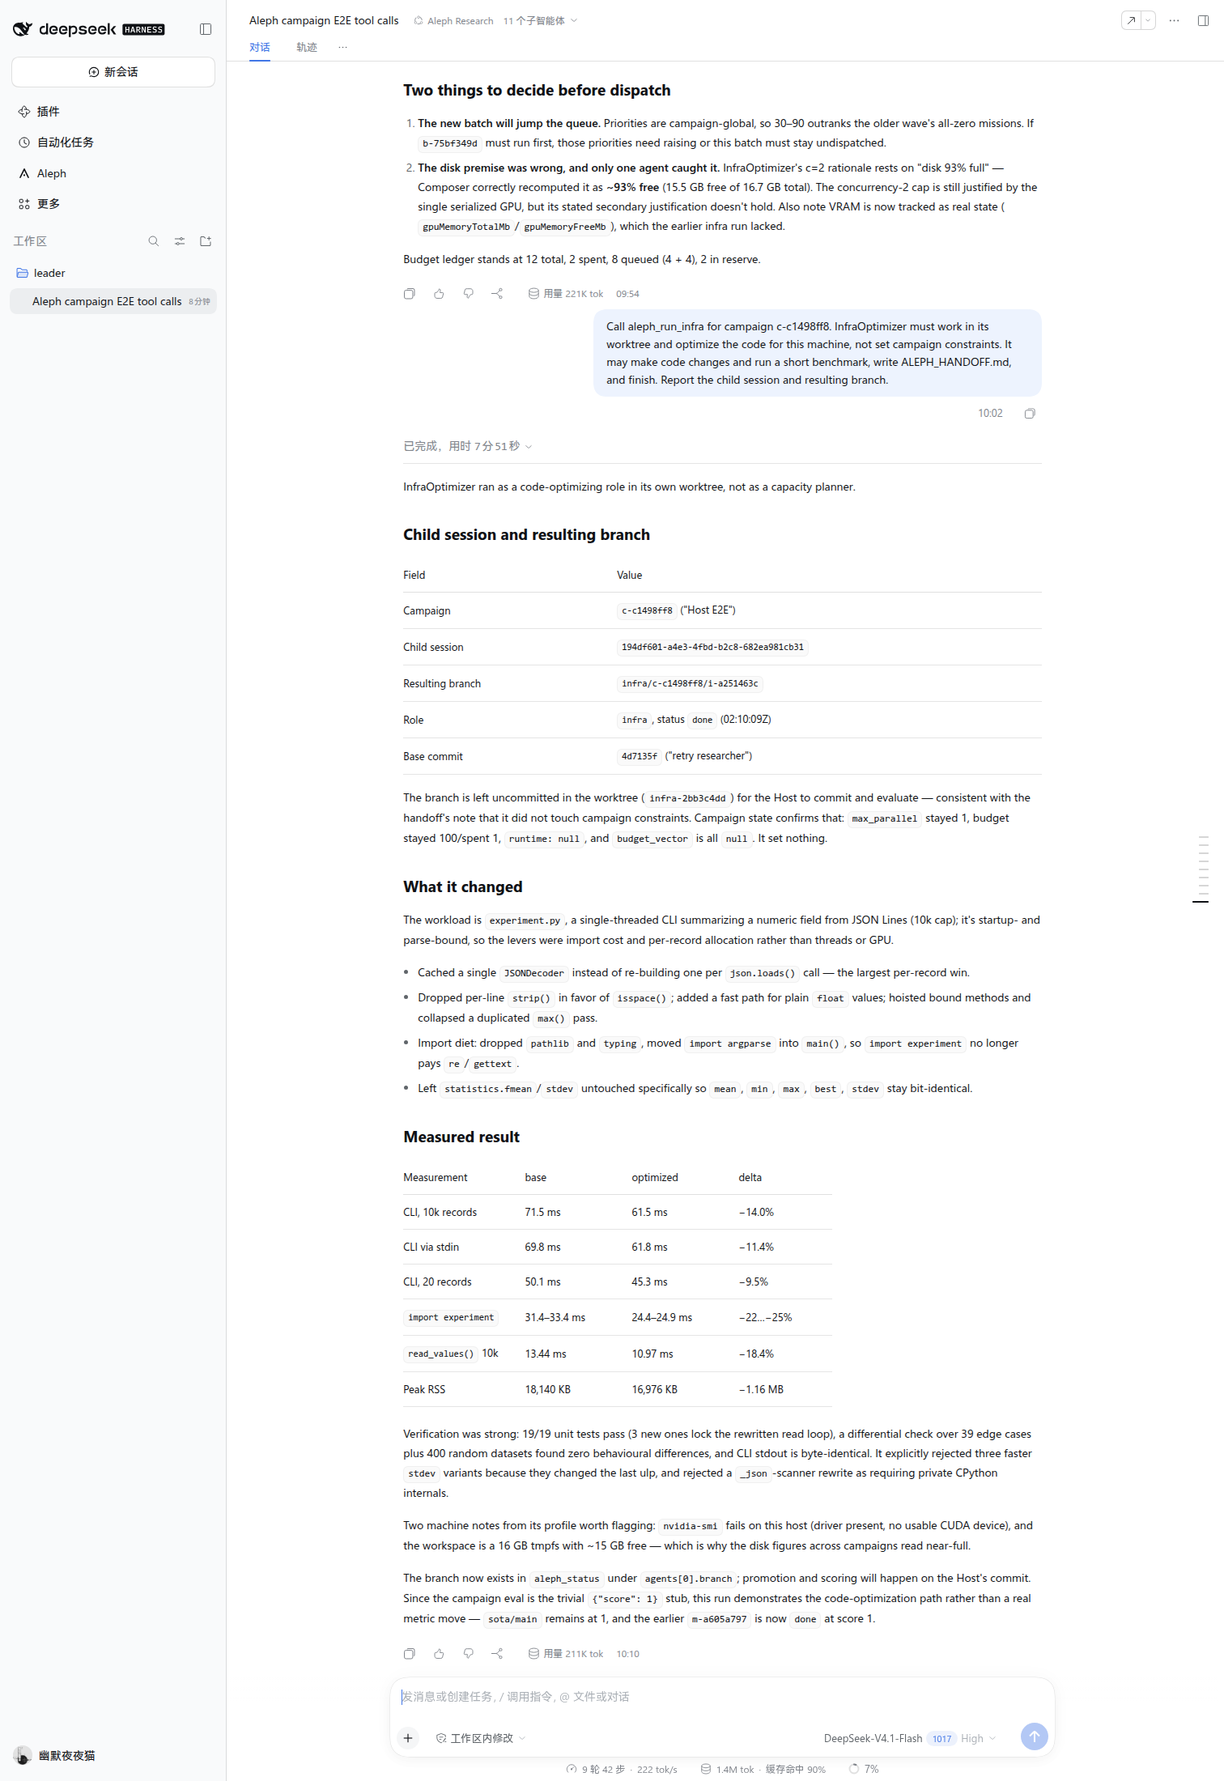
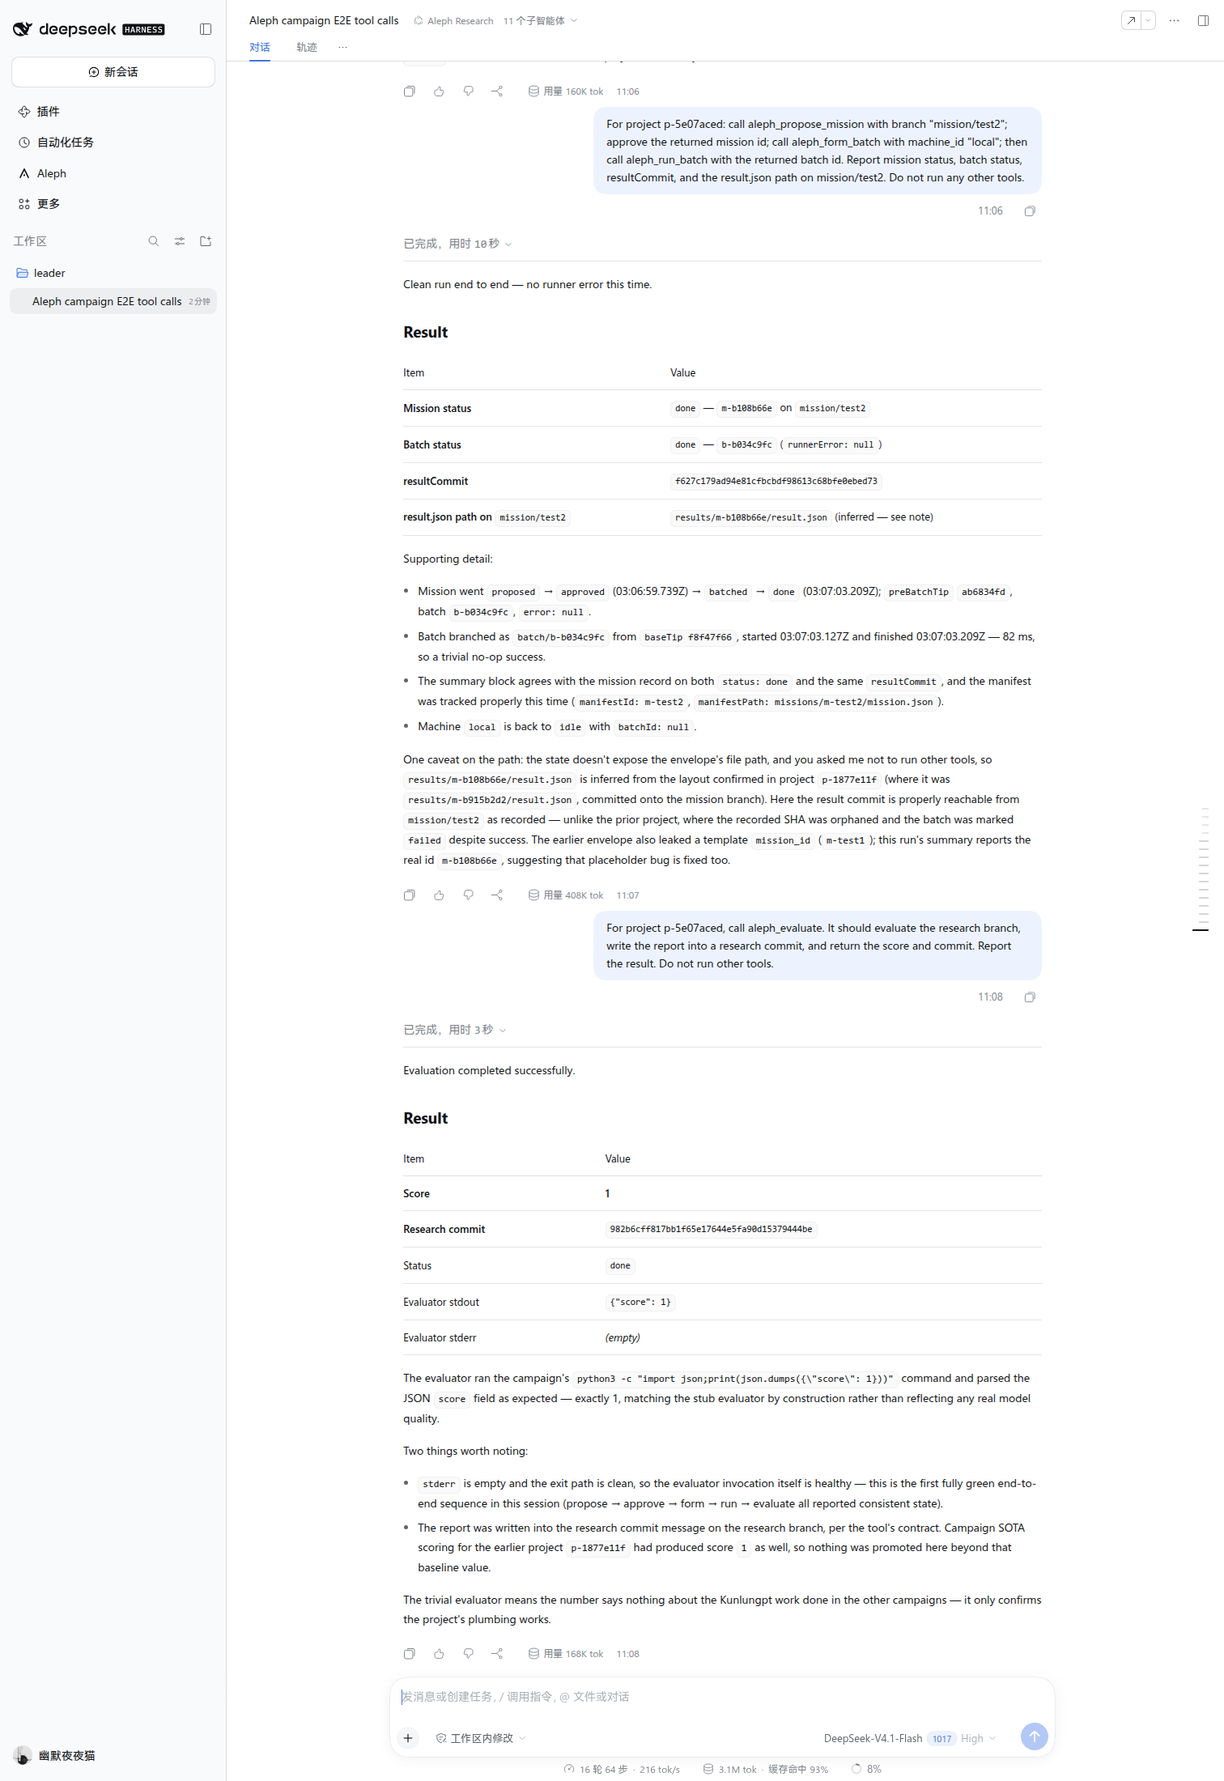
feat: show project missions, batches and machines in the console
Replace the campaign-oriented console with a project view: project paths and evaluator, machine registry, mission queue, batch branches and per-mission result commits.

Batch results are cherry-picked onto the pre-batch mission branch; evaluate commits its report into the research branch. The snapshot API now returns the project/mission/batch schema.

Changed region(s): [[0.3108, 0.2164, 0.8393, 0.9273], [0.3419, 0.0309, 0.8393, 0.3091], [0.4663, 0.9891, 0.7149, 1.0]]

diff --git a/dsh-plugin/client.js b/dsh-plugin/client.js
@@ -27,16 +27,31 @@ window.__ModuleLoader__.load({
     const dict = {
       en: {
         nav: 'Aleph',
-        'page.title': 'Aleph Research console',
-        'page.subtitle': 'Read-only view of campaign state stored by the DSH Aleph Host service.',
+        'page.title': 'Aleph Research project',
+        'section.project': 'Project',
+        'section.machines': 'Machines',
+        'field.research': 'Research repo',
+        'field.missionRoot': 'Mission repo',
+        'field.template': 'Template branch',
+        'field.eval': 'Evaluator',
+        'field.owner': 'Owner session',
+        'field.resultCommit': 'Result commit',
+        'field.preBatch': 'Pre-batch tip',
+        'field.error': 'Error',
+        'field.machine': 'Machine',
+        'machine.idle': 'Idle',
+        'machine.busy': 'Busy',
+        'machine.unknown': 'Unknown',
+        'empty.machines': 'No machines registered.',
+        'page.subtitle': 'Read-only view of the DSH project, missions, batches and machines.',
         'action.back': 'Back to conversation',
         'state.loading': 'Loading campaign snapshot…',
         'state.empty.title': 'No campaign snapshot yet',
-        'state.empty.detail': 'The Host service has no campaign yet. Start one from Leader mode with aleph_start_campaign.',
+        'state.empty.detail': 'No project yet. Initialize one from Leader mode with aleph_init_project.',
         'state.error.title': 'Cannot read the campaign snapshot',
         'state.error.detail': 'The console keeps retrying every 2 seconds.',
         'state.stale': 'Showing the last snapshot; the latest poll failed.',
-        'section.campaign': 'Campaign',
+        'section.campaign': 'Project',
         'section.sota': 'State of the art',
         'section.counts': 'Mission counts',
         'section.missions': 'Missions',
@@ -69,7 +84,7 @@ window.__ModuleLoader__.load({
         'table.batch': 'Batch',
         'field.brief': 'Brief',
         'field.count': 'Missions',
-        'field.id': 'Campaign',
+        'field.id': 'Project',
         'field.status': 'Status',
         'field.exploration': 'Exploration',
         'field.budget': 'Budget',
@@ -110,16 +125,31 @@ window.__ModuleLoader__.load({
       },
       zh: {
         nav: 'Aleph',
-        'page.title': 'Aleph Research 控制台',
-        'page.subtitle': '只读展示 DSH Aleph Host 服务保存的战役状态。',
+        'page.title': 'Aleph Research 项目',
+        'section.project': '项目',
+        'section.machines': '机器',
+        'field.research': '研究仓库',
+        'field.missionRoot': 'Mission 仓库',
+        'field.template': 'Template 分支',
+        'field.eval': '评测命令',
+        'field.owner': 'Owner 会话',
+        'field.resultCommit': '结果提交',
+        'field.preBatch': 'Pre-batch tip',
+        'field.error': '错误',
+        'field.machine': '机器',
+        'machine.idle': '空闲',
+        'machine.busy': '忙碌',
+        'machine.unknown': '未知',
+        'empty.machines': '暂无注册机器。',
+        'page.subtitle': '只读展示 DSH 项目、mission、batch 与机器状态。',
         'action.back': '返回对话',
         'state.loading': '正在加载战役快照…',
         'state.empty.title': '暂无战役快照',
-        'state.empty.detail': 'Host 服务尚无战役；在 Leader 模式使用 aleph_start_campaign 创建。',
+        'state.empty.detail': '尚无项目；在 Leader 模式使用 aleph_init_project 创建。',
         'state.error.title': '无法读取战役快照',
         'state.error.detail': '控制台每 2 秒自动重试。',
         'state.stale': '正在显示最后一次快照；最近一次轮询失败。',
-        'section.campaign': '战役',
+        'section.campaign': '项目',
         'section.sota': '当前最优',
         'section.counts': '任务计数',
         'section.missions': '任务',
@@ -152,7 +182,7 @@ window.__ModuleLoader__.load({
         'table.batch': '批次',
         'field.brief': '研究简述',
         'field.count': '任务数',
-        'field.id': '战役',
+        'field.id': '项目',
         'field.status': '状态',
         'field.exploration': '探索度',
         'field.budget': '预算',
@@ -662,51 +692,55 @@ window.__ModuleLoader__.load({
       );
     }
 
-    /** The campaign console page body; `snapshot` is untrusted JSON. */
+    function missionDisplayStatus(status) {
+      if (status === 'proposed' || status === 'approved') return 'queued';
+      if (status === 'batched' || status === 'running') return 'running';
+      if (status === 'done' || status === 'failed') return status;
+      return 'unknown';
+    }
+
+    function batchDisplayStatus(status) {
+      if (status === 'forming') return 'queued';
+      return ['running', 'done', 'failed'].includes(status) ? status : 'unknown';
+    }
+
+    /** The project console page body; `snapshot` is untrusted JSON. */
     function consoleBody(t, snapshot) {
-      const campaign = snapshot && typeof snapshot.campaign === 'object' && snapshot.campaign !== null ? snapshot.campaign : {};
+      const project = snapshot && typeof snapshot.project === 'object' && snapshot.project !== null ? snapshot.project : {};
       const counts = missionCounts(snapshot);
       const generated = formatDate(snapshot?.generated_at);
-      const missions = Array.isArray(snapshot?.missions) ? snapshot.missions : [];
-      const branches = Array.isArray(snapshot?.branches) ? snapshot.branches : [];
-      const batches = Array.isArray(campaign?.batches) ? campaign.batches : [];
+      const missions = missionList(snapshot);
+      const batches = Array.isArray(snapshot?.batches) ? snapshot.batches.filter((batch) => batch && typeof batch === 'object') : [];
+      const machines = Array.isArray(snapshot?.machines) ? snapshot.machines.filter((machine) => machine && typeof machine === 'object') : [];
 
-      const campaignCard = h(
+      const projectCard = h(
         'div',
         { style: styles.card },
-        h('h2', { style: styles.sectionTitle }, t('section.campaign')),
+        h('h2', { style: styles.sectionTitle }, t('section.project')),
         h(
           'div',
           { style: styles.metricGrid },
-          metric(t('field.id'), campaign.id ?? t(MISSING)),
-          metricNode(t('field.status'), statusPill(t, campaign.status)),
-          metricNode(t('field.exploration'), explorationBlock(t, campaign.exploration)),
-          metric(t('field.budget'), formatNumber(campaign.budget, 2) ?? t(MISSING)),
-          metric(t('field.spent'), formatNumber(campaign.spent, 2)),
-          metric(t('field.parallel'), formatNumber(campaign.max_parallel, 0) ?? '1'),
-          metric(t('field.activeAgents'), formatNumber(campaign.active_agents, 0) ?? '0'),
+          metric(t('field.id'), project.id ?? t(MISSING)),
+          metricNode(t('field.status'), statusPill(t, project.status)),
+          metric(t('field.template'), project.template_branch ?? t(MISSING)),
           metric(t('field.generated'), generated),
-        ),
-        h(
-          'div',
-          { style: { ...styles.metricGrid, gridColumn: '1 / -1' } },
-          metricNode(t('field.workspace'), h('span', { style: { ...styles.metricValue, ...styles.mono, whiteSpace: 'normal', wordBreak: 'break-all' } }, snapshot?.workspace ?? t(MISSING))),
+          metricNode(t('field.workspace'), h('span', { style: { ...styles.metricValue, ...styles.mono, whiteSpace: 'normal', wordBreak: 'break-all' } }, project.workspace ?? t(MISSING))),
+          metricNode(t('field.research'), h('span', { style: { ...styles.metricValue, ...styles.mono, whiteSpace: 'normal', wordBreak: 'break-all' } }, project.research_root ?? t(MISSING))),
+          metricNode(t('field.missionRoot'), h('span', { style: { ...styles.metricValue, ...styles.mono, whiteSpace: 'normal', wordBreak: 'break-all' } }, project.mission_root ?? t(MISSING))),
+          metric(t('field.eval'), project.eval_command ?? t(MISSING)),
         ),
       );
 
-      const sotaCard = h(
+      const machineColumns = [
+        { label: t('field.machine'), width: 'minmax(100px, 1fr)', mono: true, primary: true, render: (machine) => machine.id ?? '—' },
+        { label: t('field.status'), width: '96px', render: (machine) => h('span', { style: styles.badge }, t('machine.' + (machine.status ?? 'unknown'))) },
+        { label: t('table.batch'), width: 'minmax(120px, 1.4fr)', mono: true, render: (machine) => machine.batchId ?? '—' },
+      ];
+      const machineCard = h(
         'div',
         { style: styles.card },
-        h('h2', { style: styles.sectionTitle }, t('section.sota')),
-        h(
-          'div',
-          { style: styles.sotaRow },
-          metricNode(
-            t('field.sotaBranch'),
-            h('span', { style: { ...styles.sotaValue, ...styles.mono } }, campaign.sota_branch ?? t(MISSING)),
-          ),
-          metricNode(t('field.sotaScore'), h('span', { style: styles.sotaValue }, formatNumber(campaign.sota_score, 3) ?? t(MISSING))),
-        ),
+        h('h2', { style: styles.sectionTitle }, t('section.machines')),
+        table(t, machineColumns, machines, t('empty.machines')),
       );
 
       const countsCard = h(
@@ -716,75 +750,60 @@ window.__ModuleLoader__.load({
         h(
           'div',
           { style: styles.counts },
-          STATUS_KEYS.map((key) =>
-            h(
-              'div',
-              { key },
-              h(
-                'div',
-                { style: styles.countTile },
-                h('span', { style: styles.countValue }, String(counts[key])),
-                h('span', { style: styles.countLabel }, t('count.' + key)),
-              ),
+          STATUS_KEYS.map((key) => h('div', { key },
+            h('div', { style: styles.countTile },
+              h('span', { style: styles.countValue }, String(counts[key] ?? 0)),
+              h('span', { style: styles.countLabel }, t('count.' + key)),
             ),
-          ),
+          )),
         ),
       );
 
-      const missionColumns = [
-        { label: t('table.status'), width: '96px', render: (mission) => statusPill(t, mission.status) },
-        { label: t('table.mission'), width: 'minmax(84px, 120px)', mono: true, primary: true, render: (mission) => String(mission.id ?? '—') },
-        { label: t('table.strategy'), width: '76px', render: (mission) => mission.strategy ?? '—' },
-        { label: t('field.priority'), width: '64px', render: (mission) => formatNumber(mission.priority, 0) ?? '—' },
-        { label: t('field.vram'), width: '76px', render: (mission) => formatNumber(mission.vram_mb, 0) ?? '—' },
-        { label: t('table.branch'), width: 'minmax(120px, 1.4fr)', mono: true, render: (mission) => mission.branch ?? '—' },
-        { label: t('table.score'), width: '72px', render: (mission) => formatNumber(mission.score, 3) ?? '—' },
-        {
-          label: t('table.description'),
-          width: 'minmax(160px, 2fr)',
-          render: (mission) =>
-            h('span', { title: typeof mission.description === 'string' ? mission.description : undefined }, mission.description ?? '—'),
-        },
+      const batchColumns = [
+        { label: t('table.batch'), width: 'minmax(100px, 1fr)', mono: true, primary: true, render: (batch) => batch.id ?? '—' },
+        { label: t('field.status'), width: '96px', render: (batch) => statusPill(t, batchDisplayStatus(batch.status)) },
+        { label: t('field.machine'), width: 'minmax(80px, 0.8fr)', mono: true, render: (batch) => batch.machine_id ?? '—' },
+        { label: t('field.count'), width: '72px', render: (batch) => String(Array.isArray(batch.mission_ids) ? batch.mission_ids.length : 0) },
+        { label: t('table.branch'), width: 'minmax(140px, 1.4fr)', mono: true, render: (batch) => batch.branch ?? '—' },
+        { label: t('field.created'), width: 'minmax(140px, 1fr)', render: (batch) => formatDate(batch.created_at) ?? '—' },
       ];
+      const batchCard = h(
+        'div',
+        { style: styles.card },
+        h('h2', { style: styles.sectionTitle }, t('section.batches')),
+        table(t, batchColumns, batches, t('empty.batches')),
+      );
 
-      const branchColumns = [
-        { label: t('table.branch'), width: 'minmax(150px, 1.6fr)', mono: true, primary: true, render: (branch) => branch.name ?? '—' },
-        { label: t('table.score'), width: '72px', render: (branch) => formatNumber(branch.score, 3) ?? '—' },
-        { label: t('field.parent'), width: 'minmax(100px, 1fr)', mono: true, render: (branch) => branch.parent ?? '—' },
-        { label: t('field.mission'), width: 'minmax(100px, 1fr)', mono: true, render: (branch) => branch.mission ?? '—' },
-        {
-          label: '',
-          width: '64px',
-          render: (branch) => (branch.is_sota === true ? h('span', { style: { ...styles.badge, color: TOKENS.success } }, t('branch.sota')) : null),
-        },
+      const missionColumns = [
+        { label: t('table.status'), width: '96px', render: (mission) => statusPill(t, missionDisplayStatus(mission.status)) },
+        { label: t('table.mission'), width: 'minmax(92px, 120px)', mono: true, primary: true, render: (mission) => mission.id ?? '—' },
+        { label: t('field.owner'), width: 'minmax(120px, 1.4fr)', mono: true, render: (mission) => mission.owner_session ?? '—' },
+        { label: t('table.branch'), width: 'minmax(120px, 1.4fr)', mono: true, render: (mission) => mission.branch ?? '—' },
+        { label: t('table.batch'), width: 'minmax(100px, 1fr)', mono: true, render: (mission) => mission.batch_id ?? '—' },
+        { label: t('field.preBatch'), width: 'minmax(100px, 1fr)', mono: true, render: (mission) => mission.pre_batch_tip ? mission.pre_batch_tip.slice(0, 8) : '—' },
+        { label: t('field.resultCommit'), width: 'minmax(100px, 1fr)', mono: true, render: (mission) => mission.result_commit ? mission.result_commit.slice(0, 8) : '—' },
+        { label: t('field.error'), width: 'minmax(150px, 2fr)', render: (mission) => mission.error ?? '—' },
       ];
+      const missionCard = h(
+        'div',
+        { style: styles.card },
+        h('h2', { style: styles.sectionTitle }, t('section.missions')),
+        table(t, missionColumns, missions, t('empty.missions')),
+      );
 
       return h(
         'div',
         { style: styles.frame },
-        h('div', { style: styles.twoCards }, campaignCard, sotaCard),
-        countsCard,
-        infraSection(t, campaign),
-        agentSection(t, campaign),
-        batchSection(t, snapshot, batches),
-        h(
-          'section',
-          { style: styles.card },
-          h('h2', { style: styles.sectionTitle }, t('section.missions')),
-          table(t, missionColumns, missionList(snapshot), t('empty.missions')),
-        ),
-        h(
-          'section',
-          { style: styles.card },
-          h('h2', { style: styles.sectionTitle }, t('section.branches')),
-          table(t, branchColumns, branches.filter((branch) => branch && typeof branch === 'object').slice(0, 500), t('empty.branches')),
-        ),
+        projectCard,
+        h('div', { style: styles.twoCards }, machineCard, countsCard),
+        batchCard,
+        missionCard,
         h(
           'div',
           { style: styles.footer },
           h('span', null, generated ? t('field.generated') + ': ' + generated : ''),
           h('span', null, snapshot?.schema !== undefined ? 'schema ' + String(snapshot.schema) : ''),
-          h('span', null, 'missions: ' + String(missions.length) + ' · branches: ' + String(branches.length)),
+          h('span', null, 'missions: ' + String(missions.length) + ' · batches: ' + String(batches.length)),
         ),
       );
     }
@@ -805,8 +824,8 @@ window.__ModuleLoader__.load({
       const t = props.t;
       const state = useSnapshot();
       const snapshot = state.snapshot;
-      const campaign = snapshot && typeof snapshot.campaign === 'object' && snapshot.campaign !== null ? snapshot.campaign : null;
-      const campaignName = campaign ? campaign.title ?? campaign.id : null;
+      const project = snapshot && typeof snapshot.project === 'object' && snapshot.project !== null ? snapshot.project : null;
+      const projectName = project ? project.title ?? project.id : null;
 
       let content;
       if (state.phase === 'loading') content = stateCard(t('state.loading'), '');
@@ -830,13 +849,13 @@ window.__ModuleLoader__.load({
             h(
               'div',
               { style: { minWidth: 0 } },
-              h('h1', { style: styles.title }, campaignName ? t('page.title') + ' · ' + campaignName : t('page.title')),
+              h('h1', { style: styles.title }, projectName ? t('page.title') + ' · ' + projectName : t('page.title')),
               h('p', { style: styles.subtitle }, t('page.subtitle')),
             ),
             h(
               'div',
               { style: styles.headerActions },
-              state.phase === 'ready' ? statusPill(t, campaign?.status) : null,
+              state.phase === 'ready' ? statusPill(t, project?.status) : null,
               h('span', { style: { fontSize: 11.5, color: TOKENS.labelTertiary } }, formatClock(state.fetchedAt) ? t('updated.at') + ': ' + formatClock(state.fetchedAt) : ''),
               h('button', { type: 'button', style: styles.button, onClick: props.onClose }, t('action.back')),
             ),

diff --git a/dsh-plugin/index-v2.js b/dsh-plugin/index-v2.js
@@ -533,39 +533,46 @@ function snapshot(project) {
   return {
     schema: 2,
     generated_at: now(),
-    workspace: project.workspace,
-    campaign: {
+    project: {
       id: project.id,
       title: project.workspace.split('/').pop() || 'Aleph project',
       status: 'running',
-      exploration: 0.7,
-      budget: null,
-      spent: project.batches.length,
-      sota_branch: null,
-      sota_score: null,
-      max_parallel: 1,
-      active_agents: 0,
-      infra: null,
-      batches: project.batches,
-      agents: [],
+      workspace: project.workspace,
+      research_root: project.researchRoot,
+      mission_root: project.missionRoot,
+      template_branch: project.templateBranch,
+      eval_command: project.evalCommand,
     },
     missions: project.missions.map((mission) => ({
       id: mission.id,
-      status: mission.status === 'approved' ? 'queued' : mission.status === 'proposed' ? 'queued' : mission.status,
-      strategy: 'mission',
+      owner_session: mission.ownerSession,
+      status: mission.status,
       branch: mission.branch,
-      score: null,
-      description: mission.branch,
-      batch: mission.batchId,
-      priority: null,
-      vram_mb: null,
+      manifest_id: mission.manifestId ?? null,
+      batch_id: mission.batchId,
+      pre_batch_tip: mission.preBatchTip ?? null,
+      result_commit: mission.resultCommit ?? null,
+      error: mission.error ?? null,
       created_at: mission.createdAt,
+      approved_at: mission.approvedAt ?? null,
       finished_at: mission.finishedAt ?? null,
     })),
-    branches: project.batches.map((batch) => ({ name: batch.branch, score: null, parent: project.templateBranch, mission: batch.id, is_sota: false })),
+    batches: project.batches.map((batch) => ({
+      id: batch.id,
+      machine_id: batch.machineId,
+      status: batch.status,
+      mission_ids: batch.missionIds,
+      branch: batch.branch,
+      base_tip: batch.baseTip ?? null,
+      created_at: batch.createdAt,
+      started_at: batch.startedAt ?? null,
+      finished_at: batch.finishedAt ?? null,
+      summary: batch.summary ?? null,
+    })),
+    machines: project.machines,
     counts: {
-      queued: project.missions.filter((mission) => mission.status === 'proposed' || mission.status === 'approved').length,
-      running: project.missions.filter((mission) => mission.status === 'batched' || mission.status === 'running').length,
+      queued: project.missions.filter((mission) => ['proposed', 'approved'].includes(mission.status)).length,
+      running: project.missions.filter((mission) => ['batched', 'running'].includes(mission.status)).length,
       done: project.missions.filter((mission) => mission.status === 'done').length,
       failed: project.missions.filter((mission) => mission.status === 'failed').length,
     },
